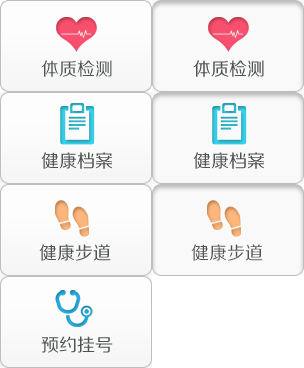
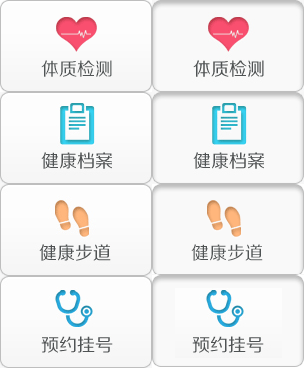
add feature in health page

Changed region(s): [[0.4737, 0.7473, 1.0, 1.0]]

diff --git a/Wlq.Web/Controllers/HomeController.cs b/Wlq.Web/Controllers/HomeController.cs
@@ -79,6 +79,29 @@ namespace Wlq.Web.Controllers
 			return View();
 		}
 
+		[LoginAuthentication(RoleLevel.Normal, "User", "Login")]
+		public ActionResult YYGH()
+		{
+			var modelList = new List<PostModel>();
+			var configPostIds = new int[] { 82, 83 };
+
+			foreach (var postId in configPostIds)
+			{
+				var post = PostService.GetPost(postId, true);
+
+				if (post != null)
+				{
+					modelList.Add(new PostModel
+					{
+						Post = post,
+						Group = UserGroupService.GetGroup(post.GroupId, true)
+					});
+				}
+			}
+
+			return View(modelList);
+		}
+
 		public ActionResult Group(long id, int pageIndex = 1)
 		{
 			var group = UserGroupService.GetGroup(id, true);
